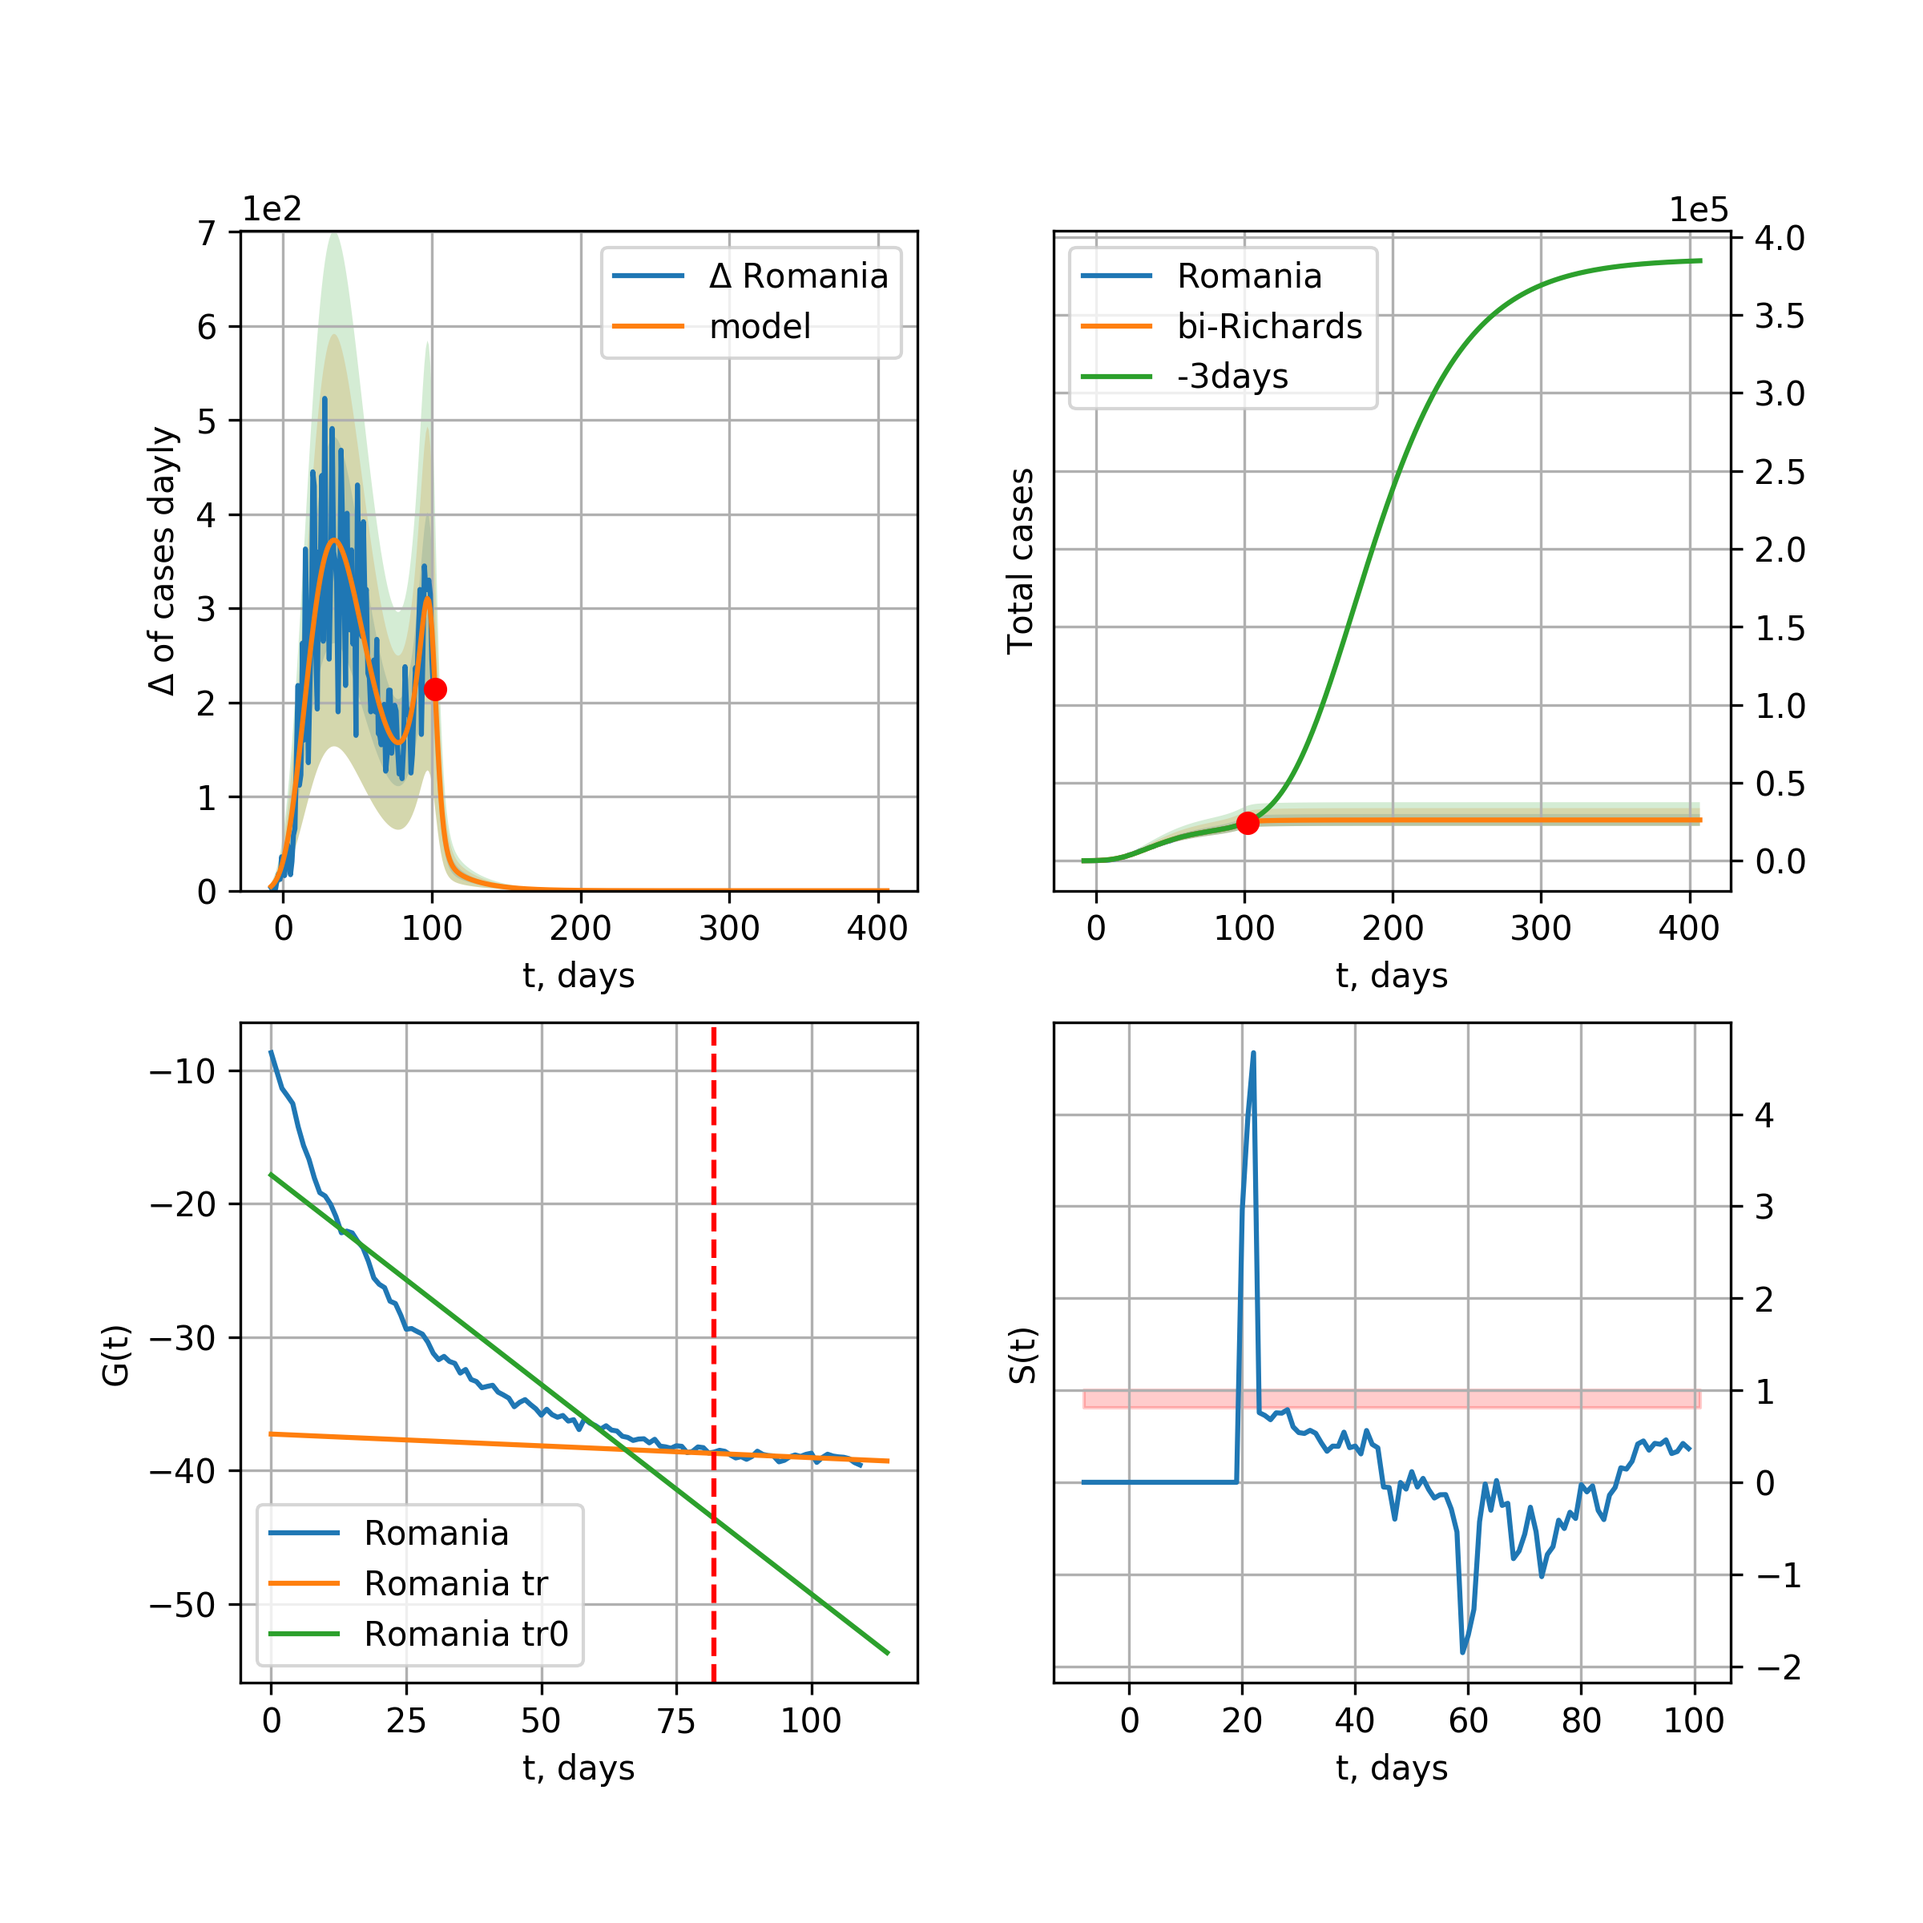
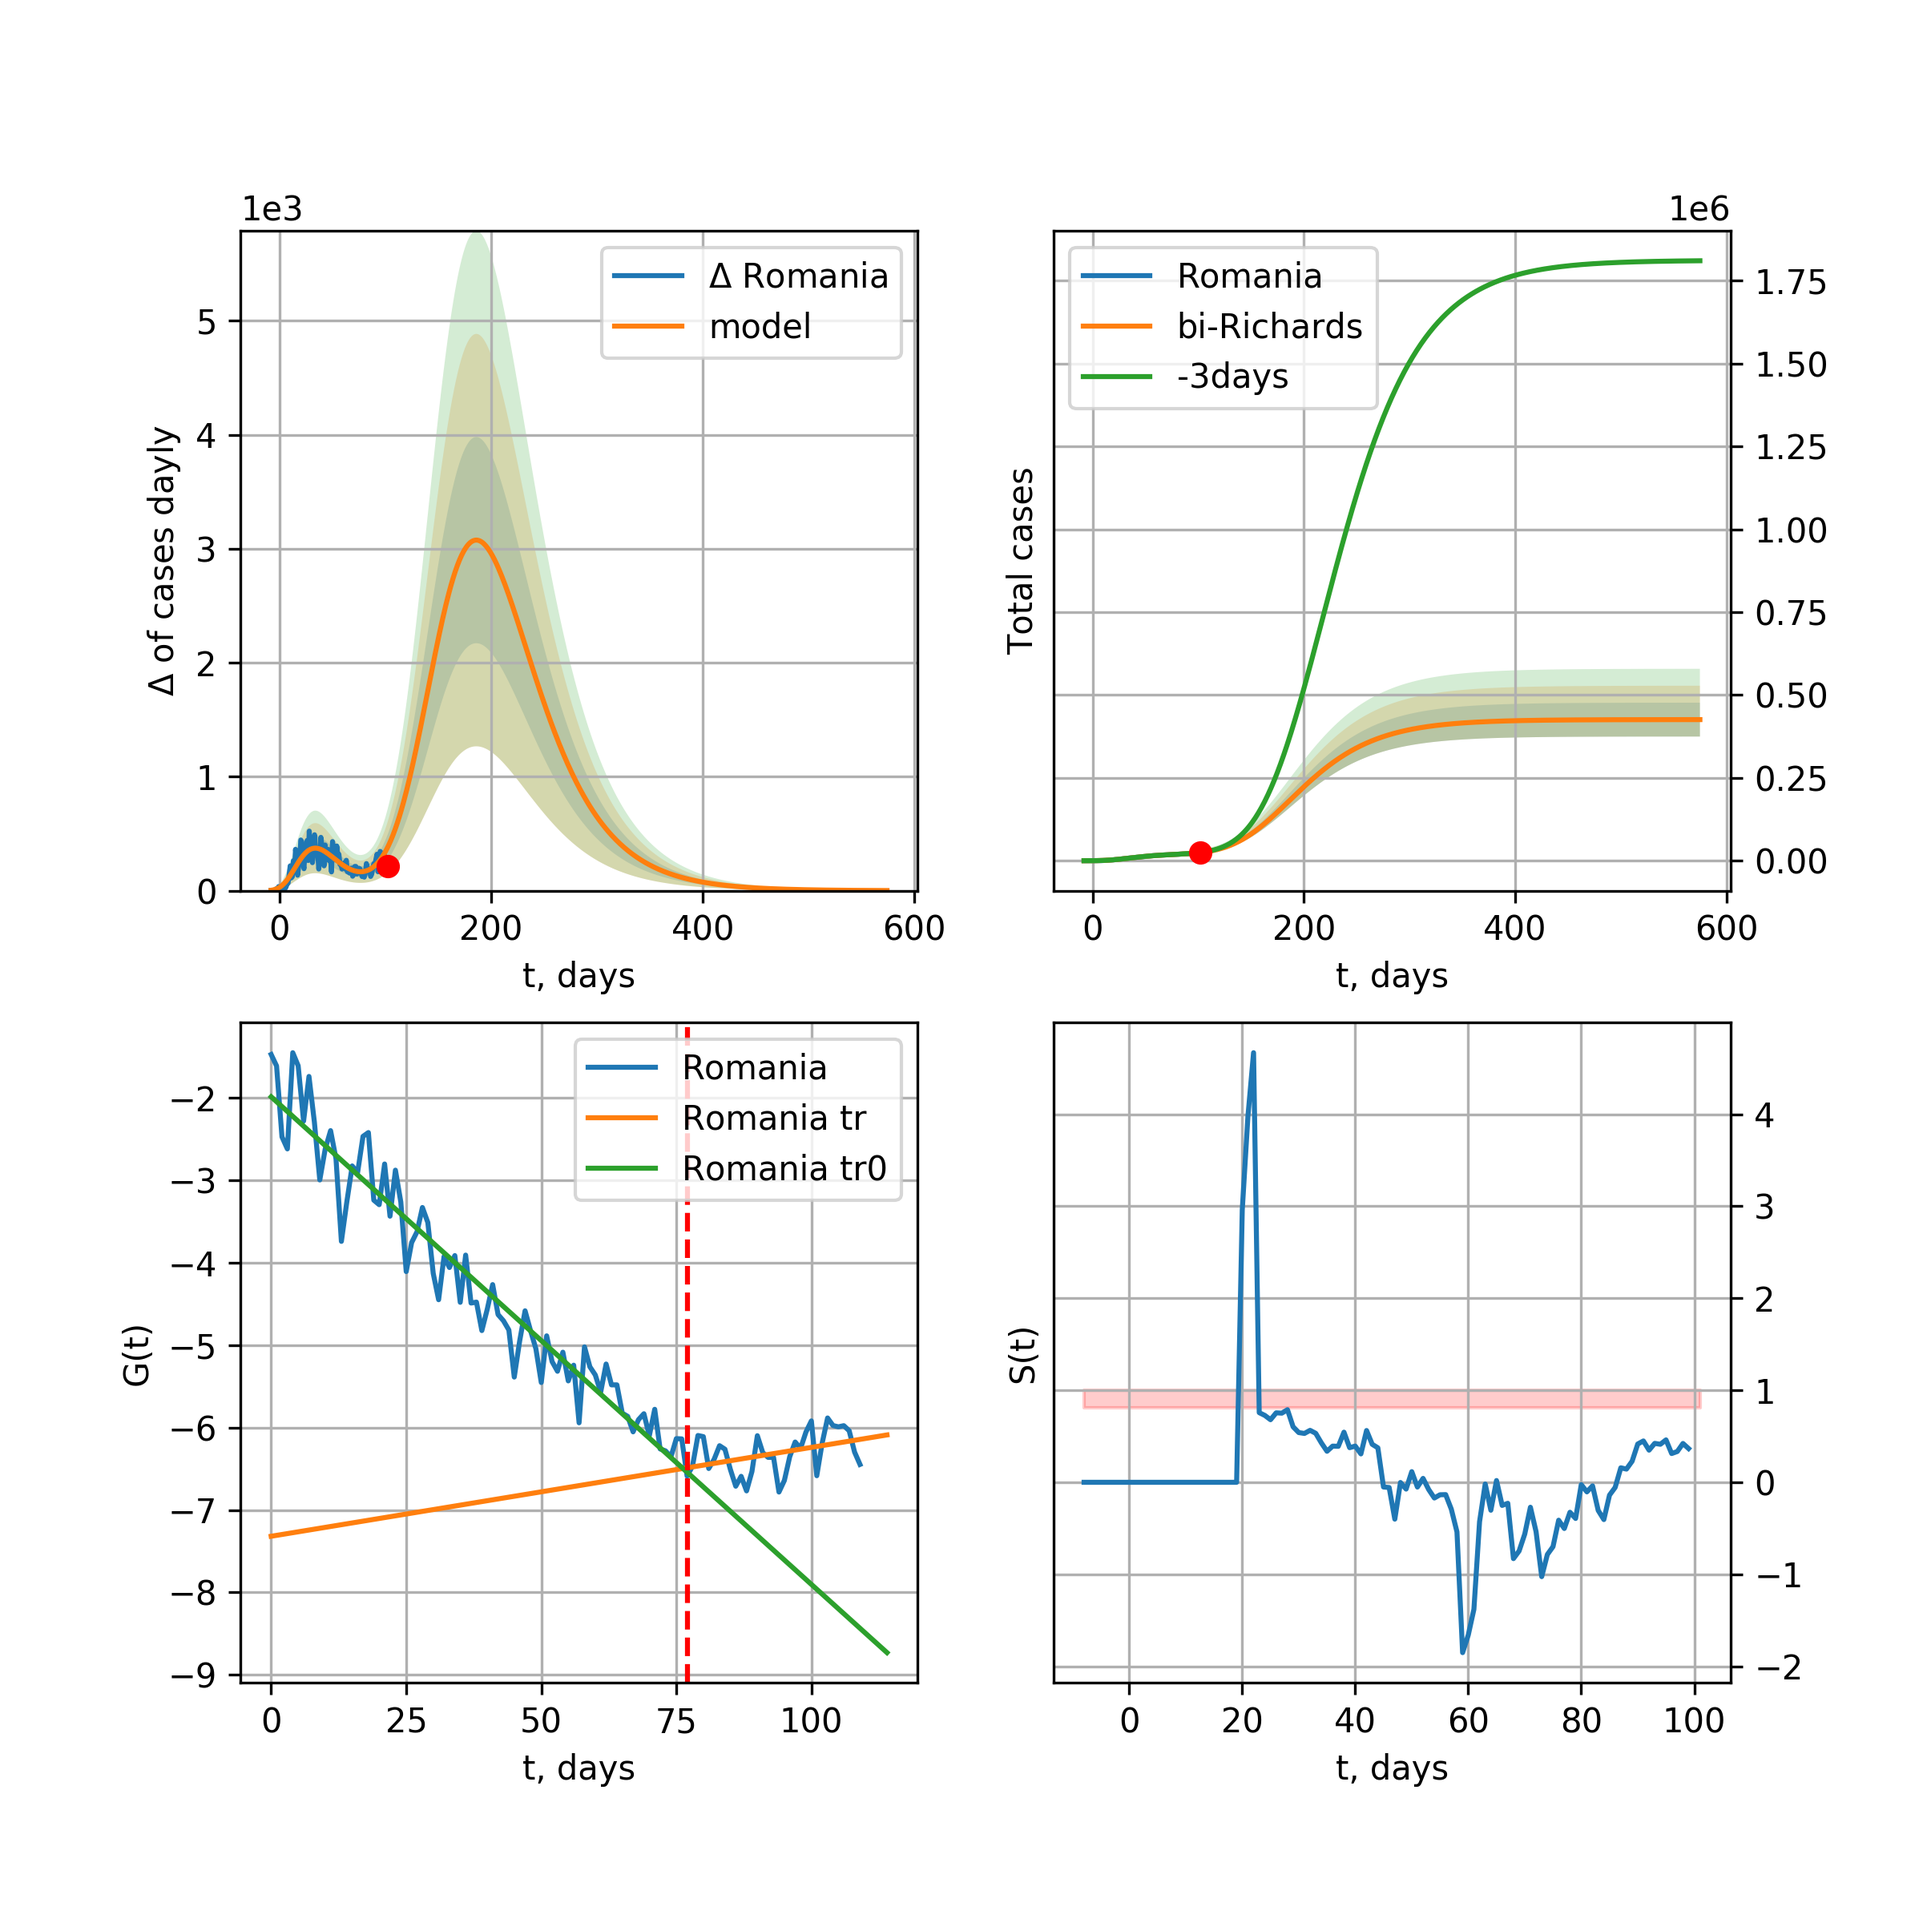
RM renew 2020-06-23

diff --git a/_site/index.html b/_site/index.html
@@ -864,20 +864,20 @@ trend coefficient of determination: 0.010049 <br />
     <img src="pictures/covidcasesRomania36_R.png" alt="hi" class="inline"/><br /> 
 
       Romania data at: 2020-06-23<br />
-+3 day model MAPE: 0.021808<br />
++3 day model MAPE: 0.006594<br />
 model: bi-Richards<br />
-coeffs: [5.03919613e+03 1.04416980e-01 1.01406305e+02 3.44853966e+00]<br />
-rational stdev: 0.145045<br />
-forecast at the end of period: +305 days<br />
-	 deltaDaycases: 0<br />
-	 total cases: 26137 ± 3791<br />
-	 total death: 1641 ± 714<br />
-bi-Richards approximation splitting point: 82<br />
-trend coefficient of determination: 0.845432 <br />
- intercept: -17.847493 <br />
- slope: -0.314193<br />trend coefficient of determination: 0.293816 <br />
- intercept: -37.275063 <br />
- slope: -0.017710<br />
+coeffs: [4.05302590e+05 1.32379969e-01 1.06797939e+02 1.68823981e-01]<br />
+rational stdev: 0.119995<br />
+forecast at the end of period: +473 days<br />
+	 deltaDaycases: 1<br />
+	 total cases: 425763 ± 51089<br />
+	 total death: 26739 ± 9625<br />
+bi-Richards approximation splitting point: 77<br />
+trend coefficient of determination: 0.934702 <br />
+ intercept: -1.986256 <br />
+ slope: -0.059156<br />trend coefficient of determination: 0.166276 <br />
+ intercept: -7.318137 <br />
+ slope: 0.010784<br />
           <br /> 
     Panama
     <br />
